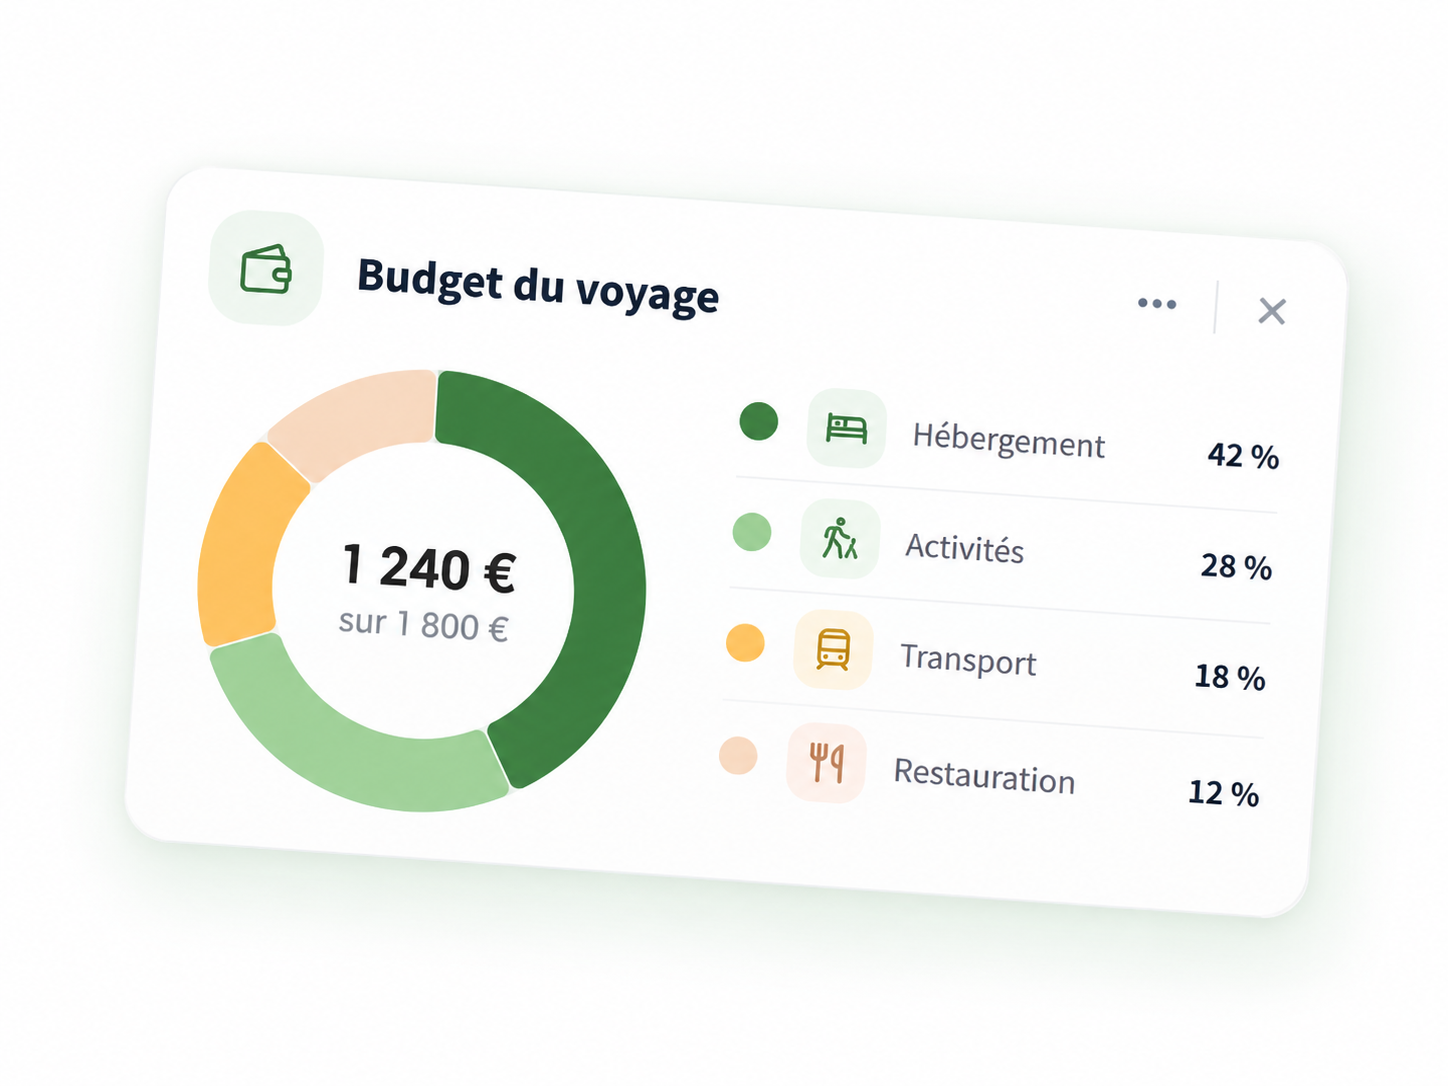
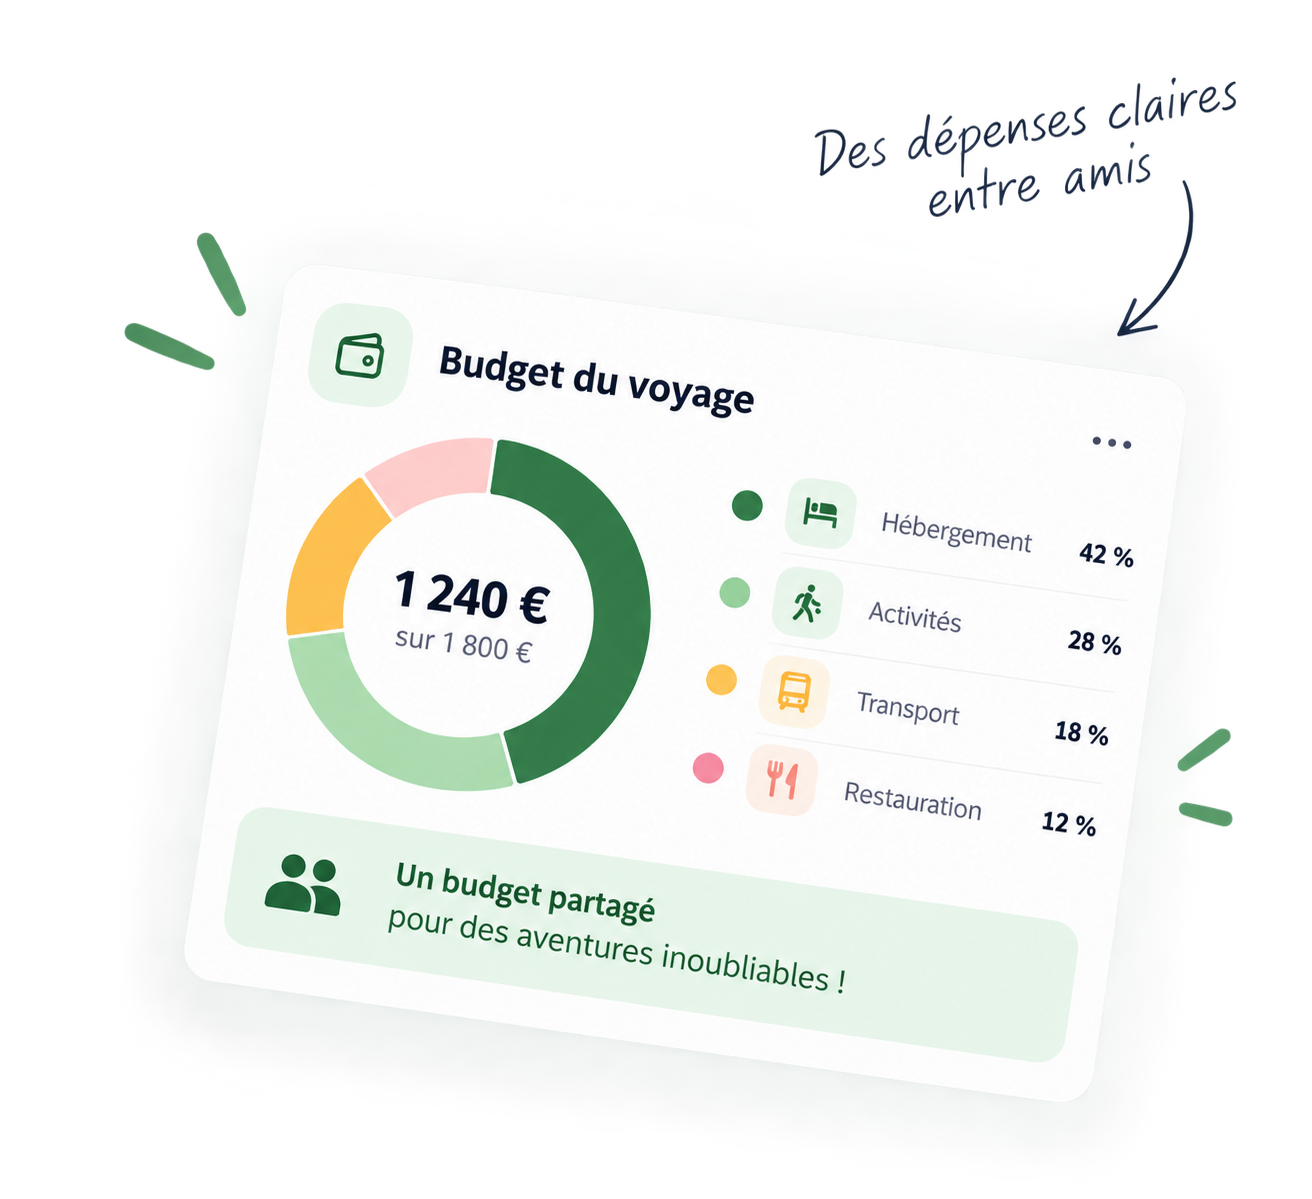
Ajout carrousel fonctionnalités sur la home

diff --git a/client/src/components/HomeFeatureCarousel.tsx b/client/src/components/HomeFeatureCarousel.tsx
@@ -34,7 +34,7 @@ const slides: FeatureSlide[] = [
     id: "destinations",
     label: "Destinations",
     mainImage: "/images/carrousel/destinations-main.png",
-    leftImage: "/images/carrousel/destinations-photo.jpg",
+    leftImage: "/images/carrousel/destinations-photo.png",
     sideImage: "/images/carrousel/destinations-side.png",
     handwrittenLeft: "Le monde est plus beau à plusieurs ♡",
     handwrittenRight: "Proposez vos coups de cœur !",
